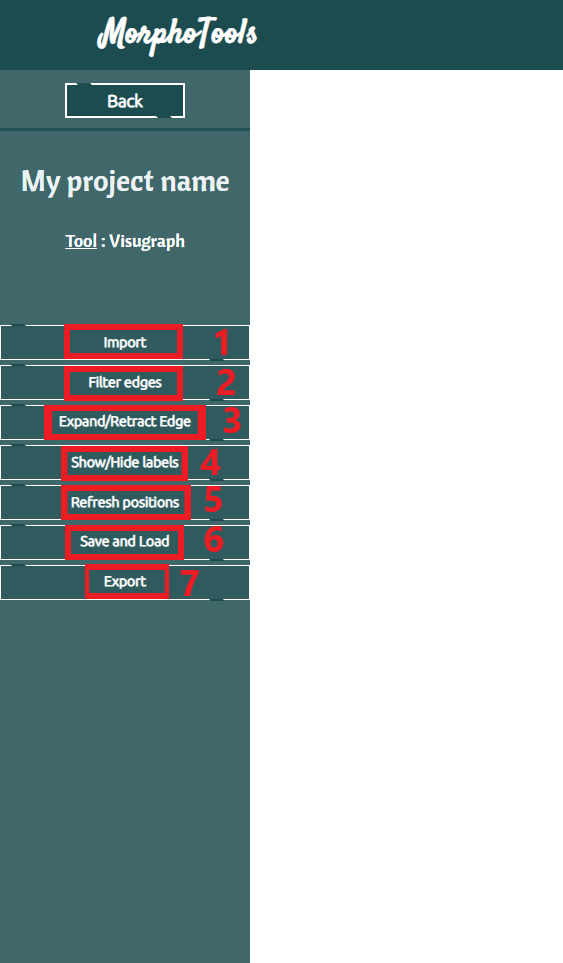
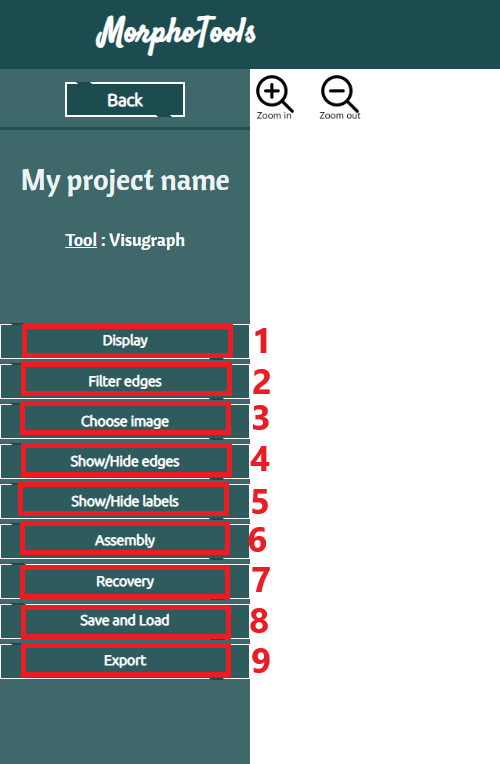
help avec les nouveau screen shots

Changed region(s): [[0.0, 0.0, 1.0, 1.0]]

diff --git a/help.html b/help.html
@@ -120,25 +120,30 @@
             <figcaption>Visugraph options</figcaption>
         </figure>
         <div id = help_text>
-            (1) Display :   Select a display style and use it for imported images.<br>
-            (2) Filter edges :  Enter a new threshold and use it to remove edges that have a lower similarity. <br>
-            (3) Choose image :  Display the list of loaded image in order to make a selection. Not selected images will be remove from the graph. <br>
-            (4) Show / Hide Edges :     Default setting = retracted. When Expanded, show edges and their legend. <br>
-            (5) Show / hide labels :    If edges are expanded, show edges label. <br>
-            (6.1) Assembly - Select group : Allow group creation by clicking nodes. When all the wanted nodes are selected, you can validate your choice and give it a name. 
+            <B>(1) Display :</B>   Select a display style and use it for imported images.<br>
+            <B>(2) Filter edges :</B>  Enter a new threshold and use it to remove edges that have a lower similarity. <br>
+            <B>(3) Choose image :</B>  Display the list of loaded image in order to make a selection. Not selected images will be remove from the graph. <br>
+            <B>(4) Show / Hide Edges :</B>     Default setting = retracted. When Expanded, show edges and their legend. <br>
+            <B>(5) Show / hide labels :</B>    If edges are expanded, show edges label. <br>
+            <B>(6) Assembly :</B> Allow the creation and management of nodes groups
+            <figure id = img_frame>
+                <img id = help_img src="images/help_visu_tools_assembly.png" height = "600px">
+                <figcaption>Assembly options</figcaption>
+            </figure>
+            <B>(6.1) Assembly - Select group :</B> Allow group creation by clicking nodes. When all the wanted nodes are selected, you can validate your choice and give it a name. 
                                             When you want to display one or multiple groups, you can click "Choose group".
             <figure id = img_frame>
                 <img id = help_img src="images/help_create-group.png" height = "300px">
                 <figcaption>Group Validation</figcaption>
             </figure>
-            (6.2) Assembly - Choose group : Display the group list. For each group, you can delete it (A), select it (B), display the group node list (C) and choose the group background color (D).
+            <B>(6.2) Assembly - Choose group :</B> Display the group list. For each group, you can delete it (A), select it (B), display the group node list (C) and choose the group background color (D).
             <figure id = img_frame>
                 <img id = help_img src="images/help_choose-group.png" height = "300px">
                 <figcaption>Group selection</figcaption>
             </figure>
-            (7) Recovery : Compute the nodes most likely position. <br>
-            (8) Save / Load : Quick save of the actual nodes position. Or quick load of the latest saved nodes position. You can also save the nodes actual position and all imported files. <br>
-            (9) Export : Export JPG for exporting the jpg without cytoscape (edges and labels are not displayed). Export JPG with cy for a jpg image including edges and labels. 
+            <B>(7) Recovery :</B> Compute the nodes most likely position. <br>
+            <B>(8) Save / Load :</B> Quick save of the actual nodes position. Or quick load of the latest saved nodes position. You can also save the nodes actual position and all imported files. <br>
+            <B>(9) Export :</B> Export JPG for exporting the jpg without cytoscape (edges and labels are not displayed). Export JPG with cy for a jpg image including edges and labels. 
             Export JSON to download a json with the actual position for each nodes (can be load as a matrix during the importaion json/csv step). <br>
         </div>
     </div>
